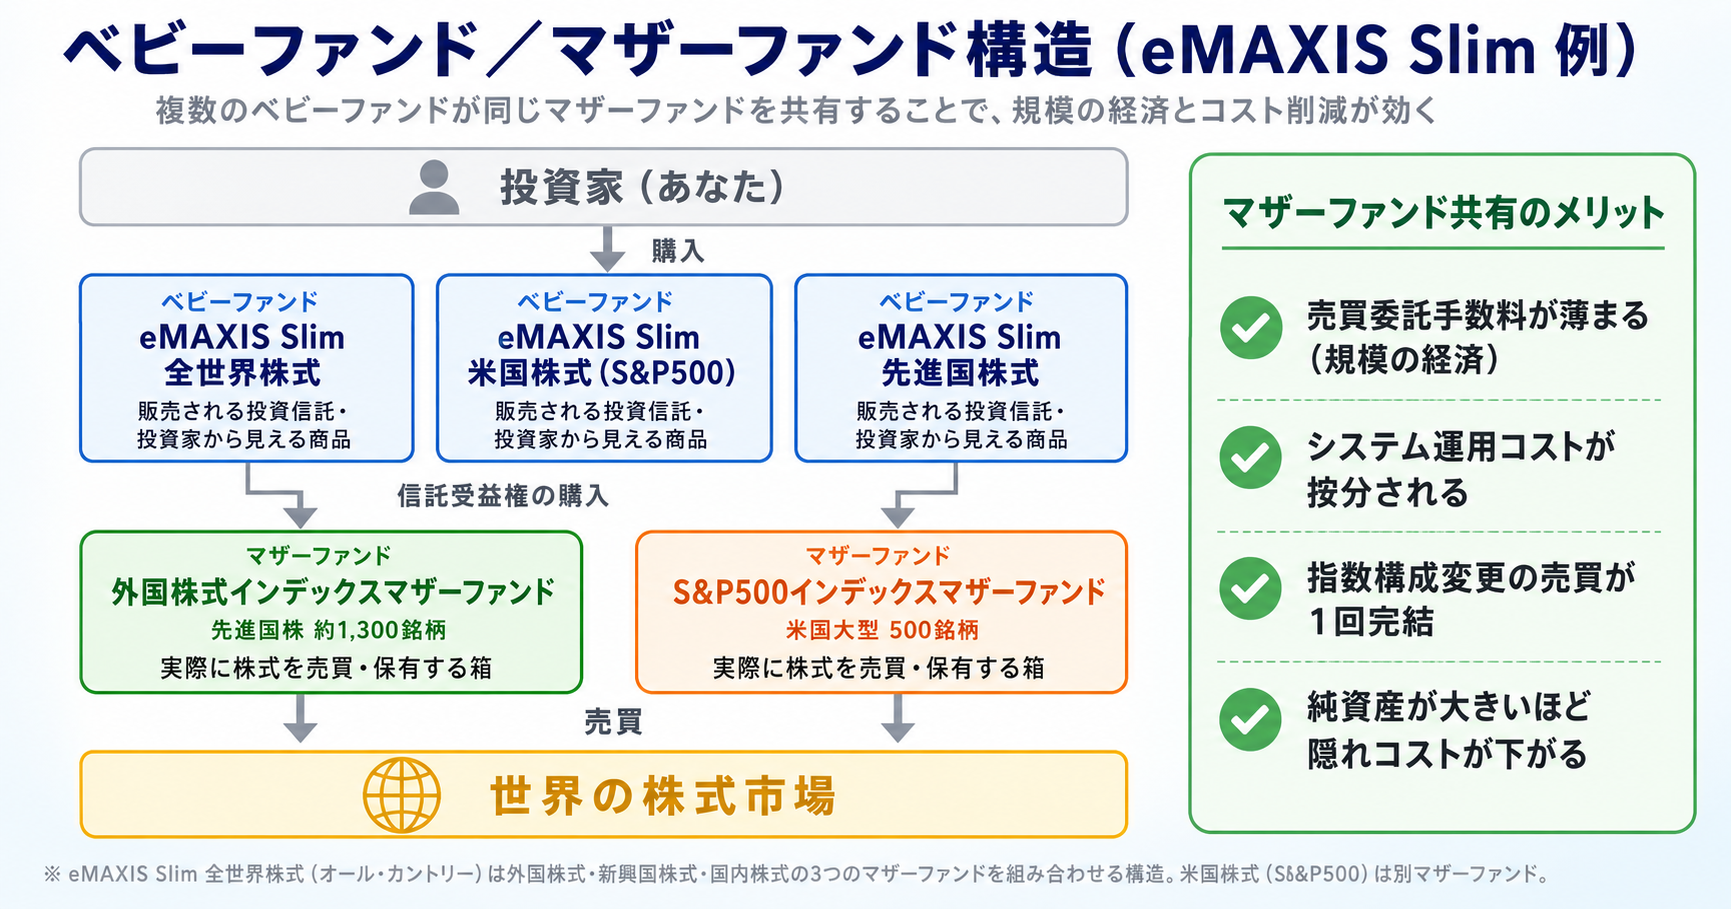
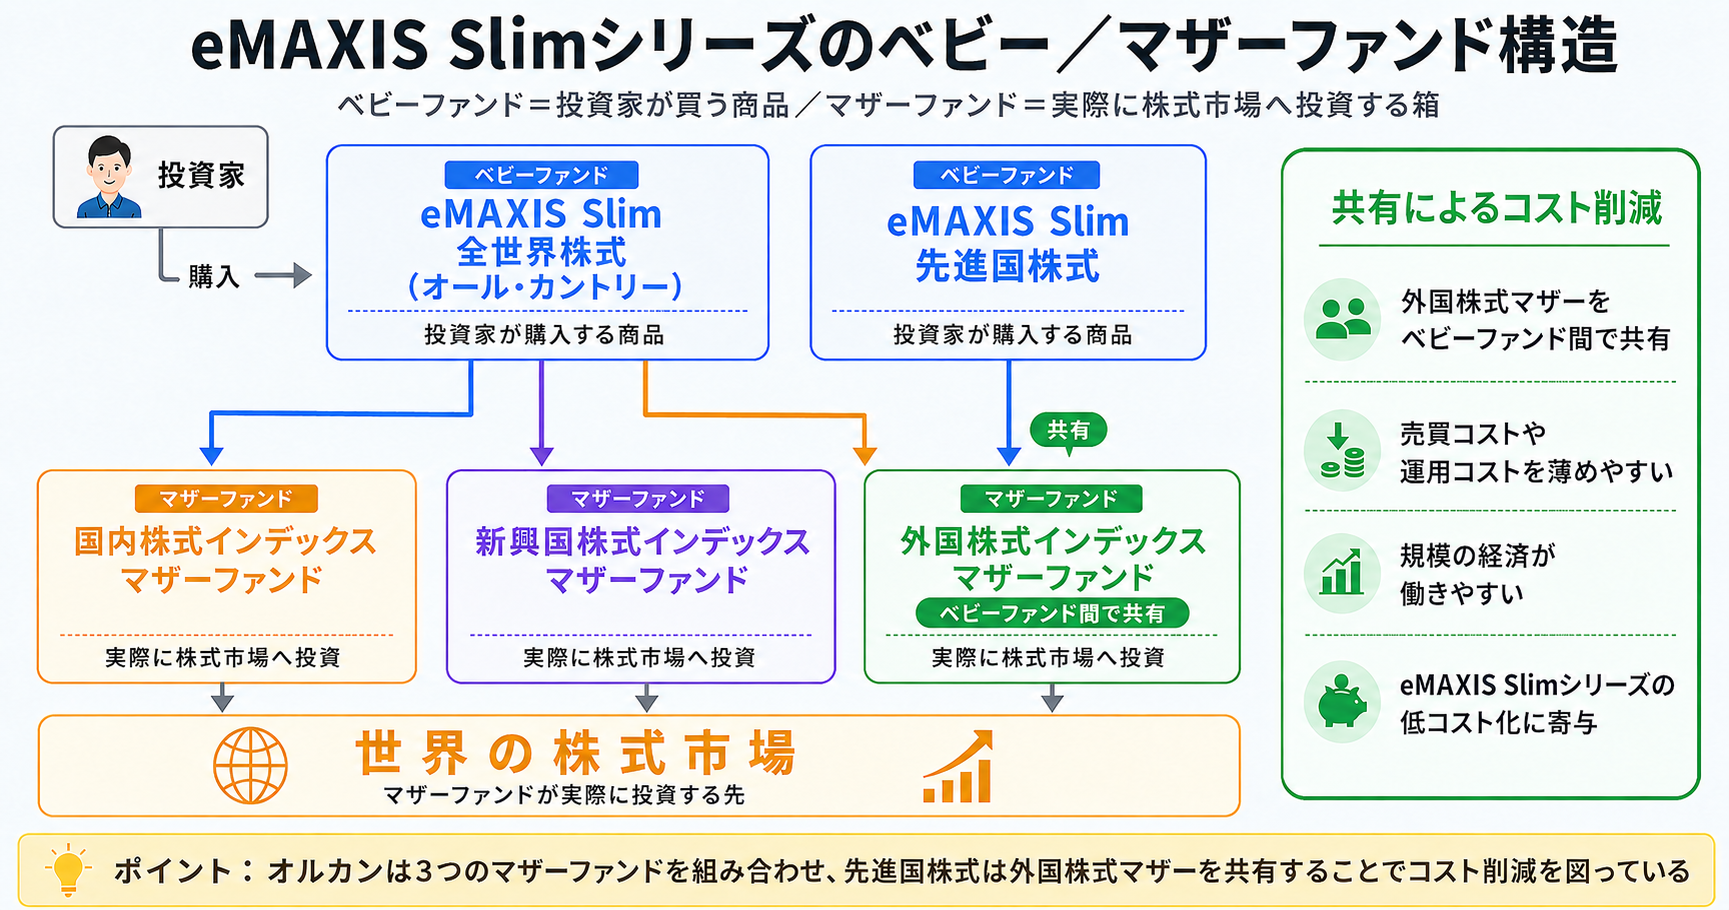
update: mother-fund illust v4 + B-2 cost section internal link + 3 add'l prompts
- illust-baby-mother-fund-structure: 矢印関係が正確な版に差し替え
- B-2 コスト構造章にD-2へのリンク追加（重複回避）
- B-2追加3枚のChatGPTプロンプトファイル作成

diff --git a/scripts/illust-all-country-vs-sp500-additional-3-prompts.md b/scripts/illust-all-country-vs-sp500-additional-3-prompts.md
@@ -1,0 +1,250 @@
+# B-2 追加イラスト ChatGPTプロンプト（3枚）
+# 記事: オルカンとS&P500どっち？「迷ったらオルカン」の理由を金融SEが3つの判断軸で解説
+
+> **重要：** 新しいChatGPT会話で生成してください。既存B-2イラスト（`illust-axis-matrix.png` `illust-reader-mapping.png` `illust-period-flip.png` `illust-market-portfolio-concept.png`）を参照画像として添付すると、テイストが揃いやすいです。
+
+---
+
+## 共通スタイル
+
+- 白〜淡いブルーグラデーション背景
+- フラットデザイン、シンプルなアイコンと枠線
+- 日本語フォント Noto Sans JP 太字基本
+- サイズ：1200×630 px
+- 印刷物のインフォグラフィック品質
+
+---
+
+## イラストA：S&P500 vs オルカンの中身比較（米国比率の可視化）
+**ファイル名：** `static/images/illust-sp500-vs-acwi-composition.png`
+**挿入箇所：** 「S&P500を選ぶことは『アクティブな選択』を含んでいる」H3 直下
+
+```
+日本語のインフォグラフィック画像（1200×630px・横長）を作成してください。
+
+【テーマ】
+オルカン（MSCI ACWI）と S&P500 の「中身」の違いを視覚化し、「S&P500は世界の40%を意図的に捨てている」というメッセージを伝える。
+
+【画像全体】
+- 白〜淡いブルーグラデーション背景
+- フラットデザイン、ドーナツチャート2つを並べる構成
+- 日本語フォントはNoto Sans JP相当の太字
+
+【上部タイトル】
+「『中身』を見ると分かる──S&P500は世界の約40%を意図的に捨てている」（濃紺・太字）
+
+【サブテキスト】
+「同じインデックス投資でも、対象範囲がまったく違う」（薄いグレー）
+
+【レイアウト：左右2分割】
+
+▼ 左側：オルカン（MSCI ACWI）の中身
+- 大きなドーナツチャート（地域ごとに色分け）
+  - 米国：青 #3b82f6 約60%
+  - 欧州・先進国：緑 #16a34a 約20%
+  - 日本：赤 #dc2626 約5%
+  - 新興国：紫 #8b5cf6 約15%
+- 中央に大きく：「オルカン」「MSCI ACWI」（太字）
+- 下に：「世界の株式時価総額を時価比率で保有」（小さく）
+- ラベル：「✓ 世界全体に分散」「✓ 市場の評価に身を任せる」
+
+▼ 右側：S&P500 の中身
+- 大きなドーナツチャート（ほぼ青一色）
+  - 米国大型500銘柄：青 #3b82f6 100%
+  - 残り（描かれない部分）：薄いグレーで「捨てている領域」として周りに「ヌケ」を表示
+  - イメージ：左半分（米国）はがっちり、右半分（その他）はうっすら影＝意図的に外している
+- 中央に大きく：「S&P500」「米国大型株のみ」（太字）
+- 下に：「米国の優位を信じる『賭け』」（小さく）
+- ラベル：「⚠ 世界の40%を意図的に外す」「⚠ アクティブな選択」
+
+▼ 中央に縦線（薄いグレー）で対比
+
+▼ 下部に強調帯（薄いゴールド帯 #fef3c7）：
+「同じ『インデックス投資』に見えても、S&P500は『米国の長期優位を前提とした賭け』を含んでいる」（濃ブラウン文字 #78350f）
+
+【カラーパレット】
+- 背景：白〜淡いブルー（#f8fafc → #ffffff）
+- 米国：青 #3b82f6
+- 欧州：緑 #16a34a
+- 日本：赤 #dc2626
+- 新興国：紫 #8b5cf6
+- 「捨てている領域」：薄いグレー #e2e8f0（半透明）
+- 強調帯：薄黄 #fef3c7
+
+【絶対にやらないでほしいこと】
+- 暗い背景にしない
+- 国旗のリアル描画は避ける（抽象的な色分けで表現）
+- 英語に変換しない
+- 「S&P500が悪い」と断定する印象を避ける（中立的に「賭けが含まれている」と表現）
+```
+
+---
+
+## イラストB：「失われた10年」S&P500推移グラフ
+**ファイル名：** `static/images/illust-sp500-lost-decade.png`
+**挿入箇所：** 「米国株が長期劣後した『失われた10年』」H3 直下
+
+```
+日本語のインフォグラフィック画像（1200×630px・横長）を作成してください。
+
+【テーマ】
+2000年〜2010年の「失われた10年」におけるS&P500の劣後を視覚化する。長期で米国株が世界に劣後した期間の長さを実感させる。
+
+【画像全体】
+- 白〜淡いブルーグラデーション背景
+- フラットデザイン、折れ線グラフ
+- 日本語フォントはNoto Sans JP相当の太字
+
+【上部タイトル】
+「S&P500の『失われた10年』──2000〜2010の間に何が起きたか」（濃紺・太字）
+
+【サブテキスト】
+「判断軸を持たない人が、この期間を耐えられただろうか？」（薄いグレー）
+
+【レイアウト】
+
+中央に大きな折れ線グラフを配置。横軸：2000年→2010年、縦軸：価格指数（2000年初を100とする）。
+
+▼ 折れ線2本：
+
+折れ線1：S&P500（赤系 #dc2626）
+- 2000年：100からスタート
+- 2002年：65まで急落（ITバブル崩壊）
+- 2007年：100に回復
+- 2009年：50まで再急落（リーマンショック）
+- 2010年：80に半回復
+- 強調：「10年で年率約-1%（マイナス）」
+
+折れ線2：MSCI ACWI ex US（緑系 #16a34a）
+- 2000年：100からスタート
+- 2003年：80
+- 2007年：180（大きく上昇）
+- 2009年：100に下落
+- 2010年：140
+- 強調：「10年で年率約+8%（プラス）」
+
+▼ 主要イベントの縦線注記：
+- 2000年3月「ITバブル崩壊開始」（薄いグレー縦線）
+- 2008年9月「リーマンショック」（薄いグレー縦線）
+- 2013年「やっと2000年水準に回復」（オレンジで強調）
+
+▼ 右上に小さなコメントボックス：
+「S&P500が2000年水準に戻るまで13年。判断軸なしでこの期間を耐えるのは現実的に難しい」
+
+▼ 下部の強調帯（薄いゴールド帯 #fef3c7）：
+「過去の成功は未来を保証しない。直近10年の好調だけを根拠にS&P500を選ぶリスクを示す史実」（濃ブラウン #78350f）
+
+【カラーパレット】
+- 背景：白〜淡いブルー
+- S&P500ライン：赤 #dc2626
+- MSCI ACWI ex US ライン：緑 #16a34a
+- 縦線注記：薄いグレー #94a3b8
+- 強調イベント：オレンジ #ea580c
+- 強調帯：薄黄 #fef3c7
+
+【絶対にやらないでほしいこと】
+- 暗い背景にしない
+- 過度に煽る表現（「破滅」「最悪」等）を入れない
+- 英語に変換しない
+- データの精度を犠牲にしない（年率リターンの符号は正確に）
+```
+
+---
+
+## イラストC：筆者の使い分け概念図
+**ファイル名：** `static/images/illust-author-fund-allocation.png`
+**挿入箇所：** 「筆者自身はどう使い分けているか」H2 直下
+
+```
+日本語のインフォグラフィック画像（1200×630px・横長）を作成してください。
+
+【テーマ】
+筆者（金融SE）が自分と子供で「S&P500」と「オルカン」を使い分けている理由を、「投資期間 × 判断力余裕度」の2軸マトリクスで視覚化する。
+
+【画像全体】
+- 白〜淡いブルーグラデーション背景
+- フラットデザイン、2×2マトリクス
+- 日本語フォントはNoto Sans JP相当の太字
+
+【上部タイトル】
+「筆者の使い分け──投資期間と判断力余裕度で選び分ける」（濃紺・太字）
+
+【サブテキスト】
+「自分はS&P500、子供向けはオルカン──その理由を2軸で整理」（薄いグレー）
+
+【レイアウト：2×2マトリクス】
+
+縦軸：投資期間（下：超長期50年以上、上：中期〜長期15〜20年）
+横軸：判断力余裕度（左：低い（加齢で難しい）、右：高い（追える））
+
+▼ 4象限の中身：
+
+右上（中期〜長期 × 判断力高い）：
+- 背景：薄い緑 #f0fdf4
+- ★大きな星マーク（「現在の筆者」を示す）
+- 見出し：「自分自身（現在）」
+- 推奨：「★ S&P500」（緑色 #16a34a・太字）
+- 理由：
+  - 米国の起業文化・政治・資本市場の制度に確信
+  - 15〜20年は米国優位と判断
+  - ニュース・株価を継続的に追える
+
+左上（中期〜長期 × 判断力低下）：
+- 背景：薄いブルー #eff6ff
+- 見出し：「自分の将来（70代以降）」
+- 推奨：「オルカン」（青色 #3b82f6）
+- 理由：
+  - 加齢で判断力に余裕がなくなる
+  - 米国優位を見直す判断もできなくなる
+  - そろそろ切り替える視点も持つ
+
+右下（超長期 × 判断力高い）：
+- 背景：薄いゴールド #fffbeb
+- 見出し：「（理論上の想定）」
+- 推奨：「どちらも合理的」
+- 理由：判断軸があれば S&P500 もアリだが、超長期は誰にも見通せない
+
+左下（超長期 × 判断力低い）：
+- 背景：薄いピンク #fdf2f8
+- ★大きな星マーク（「子供のための投資」を示す）
+- 見出し：「子供のための投資」
+- 推奨：「★ オルカン」（紫色 #8b5cf6・太字）
+- 理由：
+  - 50年以上の超長期運用
+  - 子供は判断する必要なし
+  - 50年先の世界経済は誰にも分からない
+
+▼ 右側の小ボックス：
+「筆者のメッセージ」
+「使い分けは『投資期間』×『判断力余裕度』で決まる。万人の正解はない」
+
+【カラーパレット】
+- 背景：白〜淡いブルー
+- 各象限：薄い緑/ブルー/ゴールド/ピンク
+- S&P500の推奨色：緑 #16a34a
+- オルカンの推奨色：青/紫 #3b82f6 / #8b5cf6
+
+【絶対にやらないでほしいこと】
+- 暗い背景にしない
+- 「筆者が偉い」という印象を避ける（あくまで個人の選択例）
+- 英語に変換しない
+- 実名・実顔の表現を避ける
+```
+
+---
+
+## 進め方
+
+1. 新しいChatGPT会話を開始
+2. 既存B-2イラスト（`illust-axis-matrix.png` 等）を添付し「このテイストで」と伝える
+3. 3つのプロンプトを順に投げる
+4. 生成された画像をDownloadsに保存
+5. メインClaudeに「保存した」と伝える → 取り込み・記事振り込み・git push
+
+## 既存イラストとの統一テイスト
+
+既存4枚（`illust-axis-matrix.png` `illust-reader-mapping.png` `illust-period-flip.png` `illust-market-portfolio-concept.png`）と同じく：
+- 白〜淡いブルーグラデーション背景
+- フラットデザイン
+- カラーコーディングで意味を伝える
+- 強調帯（薄いゴールド帯）でメッセージ補強
